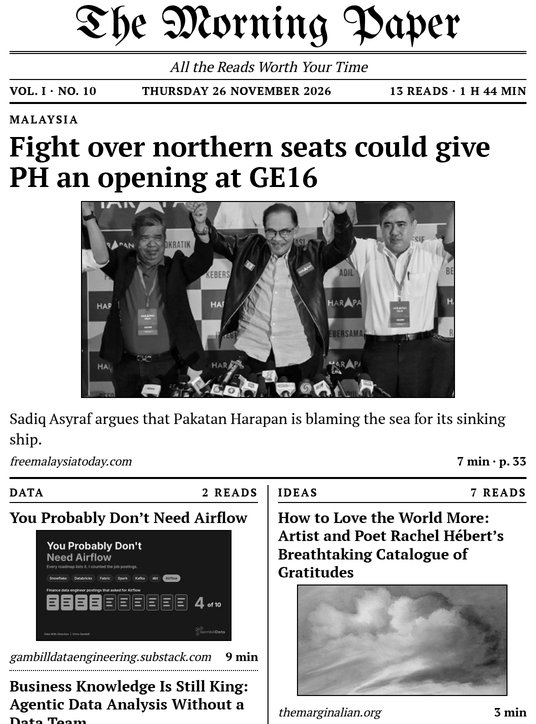
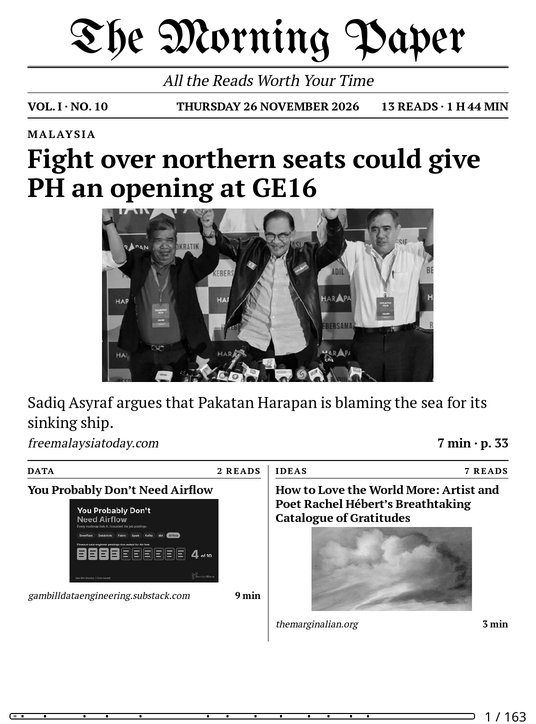
Fit the lead and two stories on one KOReader screen
Sizes are checked in the KOReader emulator at 1072 x 1448 and 300 dpi, with
font size 20, 30 px side margins and 15 px top and bottom margins. Text is
left-aligned with no indent, because KOReader justifies and indents by default.

diff --git a/frontpage.py b/frontpage.py
@@ -27,41 +27,41 @@ FALLBACK_TOPIC = "More reads"
 
 CSS = """
 body { margin: 0; color: #000; }
-.paper { font-family: "PT Serif", serif; color: #000; padding: 0 0.6em; }
+.paper { font-family: "PT Serif", serif; color: #000; text-align: left; }
 .paper a { color: #000; text-decoration: none; }
 .paper table { display: table; }
 .paper td { border-bottom: 0; }
-h1, h2, h3, p { margin: 0; color: #000; }
-.mast { font-family: "Masthead", serif; font-weight: normal; font-size: 2.9em; line-height: 1.1;
+.paper h1, .paper h2, .paper h3, .paper p { margin: 0; color: #000; text-indent: 0; text-align: left; }
+.paper .mast { font-family: "Masthead", serif; font-weight: normal; font-size: 2.6em; line-height: 1.1;
   text-align: center; border-bottom: 3px double #000; }
-.tag { text-align: center; font-style: italic; font-size: 0.9em; padding: 0.2em 0; border-bottom: 1px solid #000; }
-.dateline { width: 100%; border-collapse: collapse; border-bottom: 2px solid #000; font-size: 0.72em;
-  font-weight: bold; text-transform: uppercase; letter-spacing: 0.05em; }
-.dateline td { padding: 0.3em 0; }
-.kicker { font-size: 0.68em; font-weight: bold; text-transform: uppercase; letter-spacing: 0.14em; }
-.lead { padding: 0.5em 0; border-bottom: 2px solid #000; }
-.lead h2 { font-size: 1.75em; line-height: 1.1; margin: 0.15em 0 0.3em; }
-.lead.text h2 { font-size: 2.3em; }
-.lead p.dek { font-size: 0.95em; line-height: 1.35; margin: 0.35em 0 0.25em; }
-.lead.text p.dek { font-size: 1.05em; }
-.photo { text-align: center; margin: 0; }
-.photo img { border: 1px solid #000; }
-.meta { width: 100%; border-collapse: collapse; font-size: 0.75em; }
+.paper .tag { text-align: center; font-style: italic; font-size: 0.85em; padding: 0.15em 0; border-bottom: 1px solid #000; }
+.dateline { width: 100%; border-collapse: collapse; border-bottom: 2px solid #000; font-size: 0.66em;
+  font-weight: bold; text-transform: uppercase; letter-spacing: 0.04em; }
+.dateline td { width: 28%; padding: 0.3em 0; }
+.dateline td.mid { width: 44%; }
+.paper .kicker { font-size: 0.62em; font-weight: bold; text-transform: uppercase; letter-spacing: 0.14em; }
+.lead { padding: 0.4em 0; border-bottom: 2px solid #000; }
+.paper .lead h2 { font-size: 1.45em; line-height: 1.1; margin: 0.1em 0 0.25em; }
+.paper .lead.text h2 { font-size: 1.9em; }
+.paper .lead p.dek { font-size: 0.85em; line-height: 1.3; margin: 0.3em 0 0.2em; }
+.paper .lead.text p.dek { font-size: 0.95em; }
+.paper .photo { text-align: center; margin: 0; }
+.meta { width: 100%; border-collapse: collapse; font-size: 0.68em; }
 .meta td { padding: 0; font-style: italic; }
 .meta td.r { text-align: right; font-style: normal; font-weight: bold; white-space: nowrap; }
-.cols { width: 100%; border-collapse: collapse; margin-top: 0.4em; }
+.cols { width: 100%; border-collapse: collapse; margin-top: 0.3em; }
 .cols td.col { width: 50%; vertical-align: top; padding: 0; }
-.cols td.left { padding-right: 0.6em; border-right: 1px solid #000; }
-.cols td.right { padding-left: 0.6em; }
+.cols td.left { padding-right: 0.5em; }
+.cols td.right { padding-left: 0.5em; border-left: 1px solid #000; }
 .cols.next { page-break-before: always; margin-top: 0; }
-.sec { margin-bottom: 0.5em; }
-.sec .kicker { border-bottom: 1px solid #000; padding-bottom: 0.2em; }
+.sec { margin-bottom: 0.4em; }
+.sec .kicker { border-bottom: 1px solid #000; padding-bottom: 0.15em; }
 .count { float: right; }
-.item { padding: 0.35em 0; border-bottom: 1px dotted #000; }
+.item { padding: 0.3em 0; border-bottom: 1px dotted #000; }
 .item.last { border-bottom: 0; }
-.item .photo { margin: 0.2em 0; }
-.item h3 { font-size: 0.95em; line-height: 1.2; margin-bottom: 0.1em; }
-.foot { border-top: 1px solid #000; padding-top: 0.25em; margin-top: 0.3em; font-size: 0.72em;
+.paper .item .photo { margin: 0.2em 0; }
+.paper .item h3 { font-size: 0.85em; line-height: 1.2; margin-bottom: 0.1em; }
+.paper .foot { border-top: 1px solid #000; padding-top: 0.25em; margin-top: 0.3em; font-size: 0.66em;
   text-align: center; font-style: italic; }
 """
 
@@ -172,7 +172,7 @@ def render(stories: list[dict], lead: dict, screens: list[list], more: int, pape
 <h1 class="mast">{e(title)}</h1>
 <p class="tag">{e(tagline)}</p>
 <table class="dateline"><tr><td>Vol. I · No. {e(edition)}</td>
-<td style="text-align:center">{today:%A %-d %B %Y}</td>
+<td class="mid" style="text-align:center">{today:%A %-d %B %Y}</td>
 <td style="text-align:right">{len(stories)} reads · {total_time(sum(s["minutes"] for s in stories))}</td></tr></table>
 <div class="lead{"" if lead.get("photo") else " text"}">
 {f'<p class="kicker">{e(lead["topic"])}</p>' if lead["run"] else ""}
@@ -217,10 +217,10 @@ def text_front_page(kdb, book, articles: list[dict]):
             images[s["photo"][0]] = buf.getvalue()
         return bool(im)
 
-    lead_has_photo = add_photo(lead, (1000, 380))
+    lead_has_photo = add_photo(lead, (1000, 360))
     lead["dek"] = dek(lead["html"], 2, 220) if lead_has_photo else dek(lead["html"], 4, 420)
     for col in screens[0] + screens[1]:  # one photo per column on each screen
-        next((s for _, items in col for s in items if add_photo(s, (500, 220))), None)
+        next((s for _, items in col for s in items if add_photo(s, (500, 180))), None)
     paper = (kdb.PAPER_TITLE, kdb.PAPER_TAGLINE, kdb.EDITION_FILE.read_text().strip())
     page_html = render(stories, lead, screens, len(stories) - 1 - len(picked), paper, datetime.now())
 
